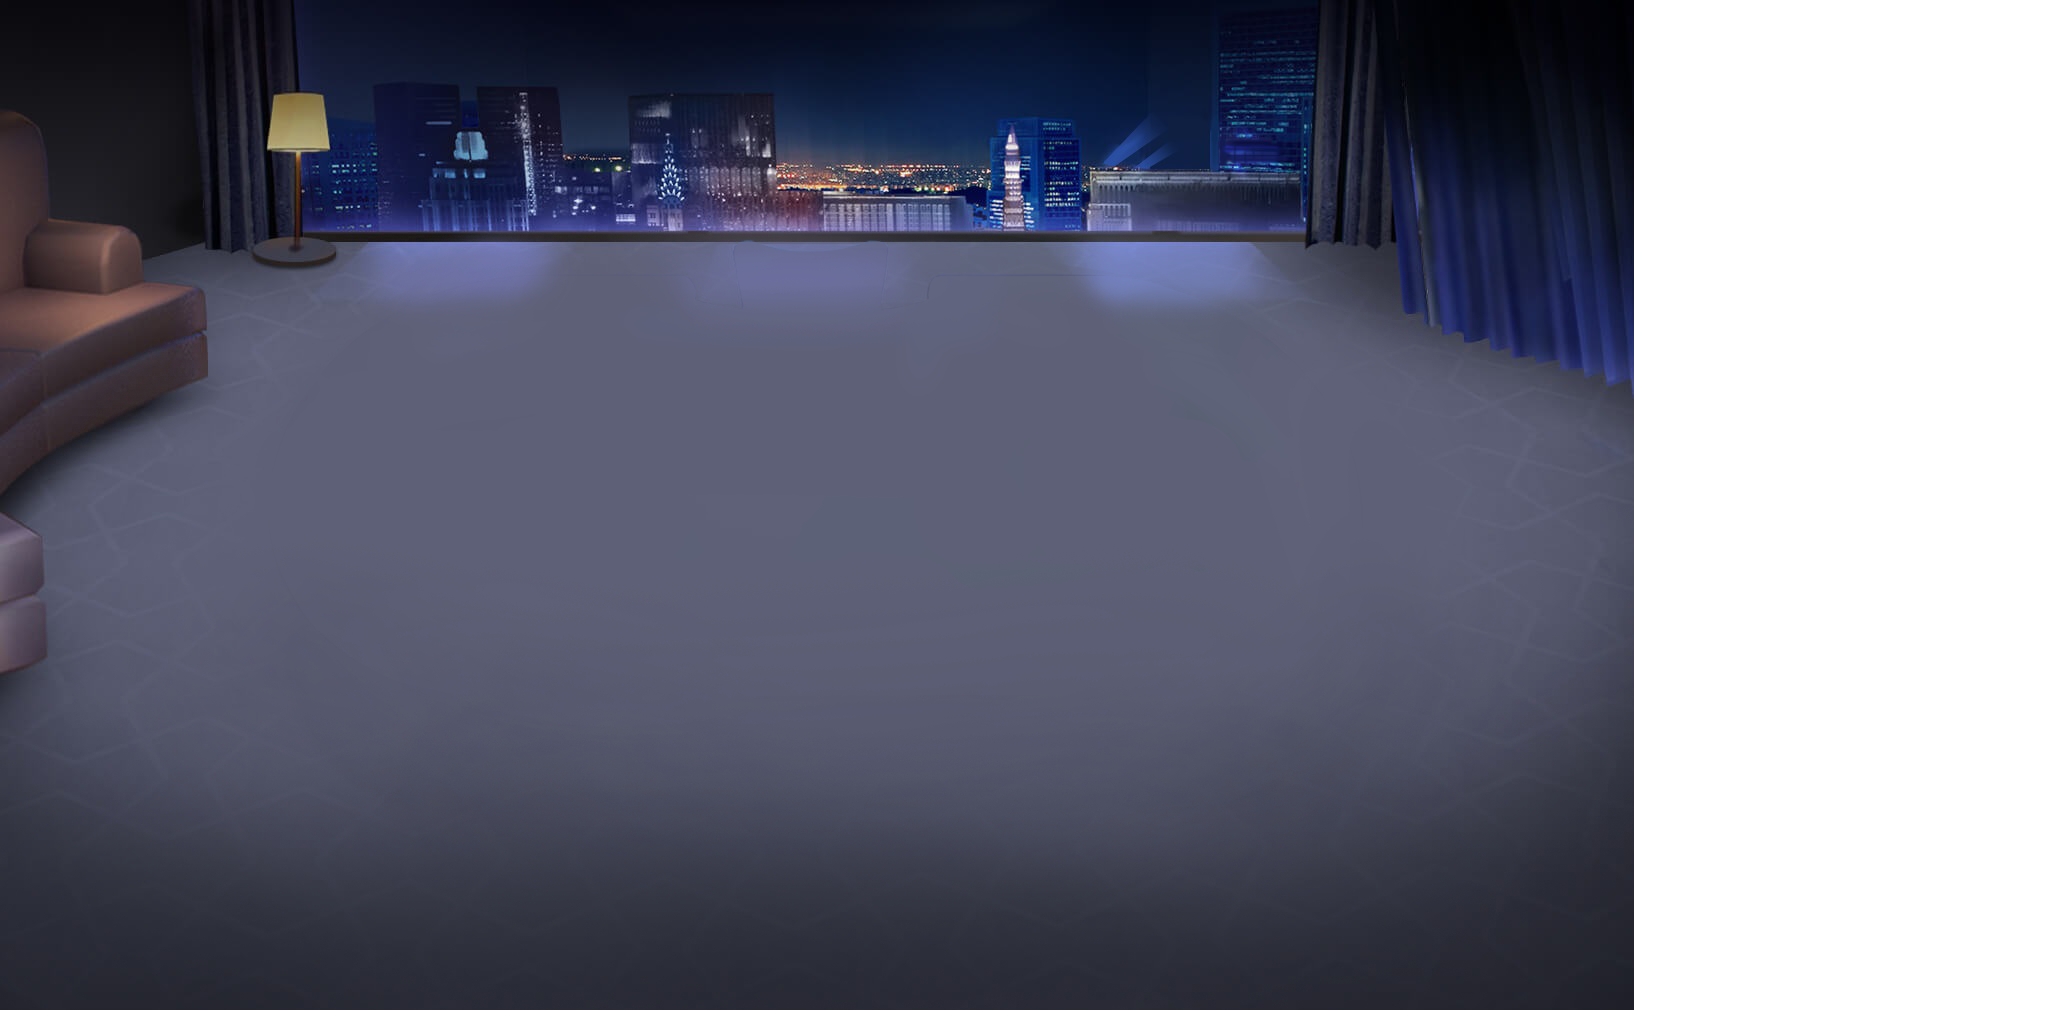
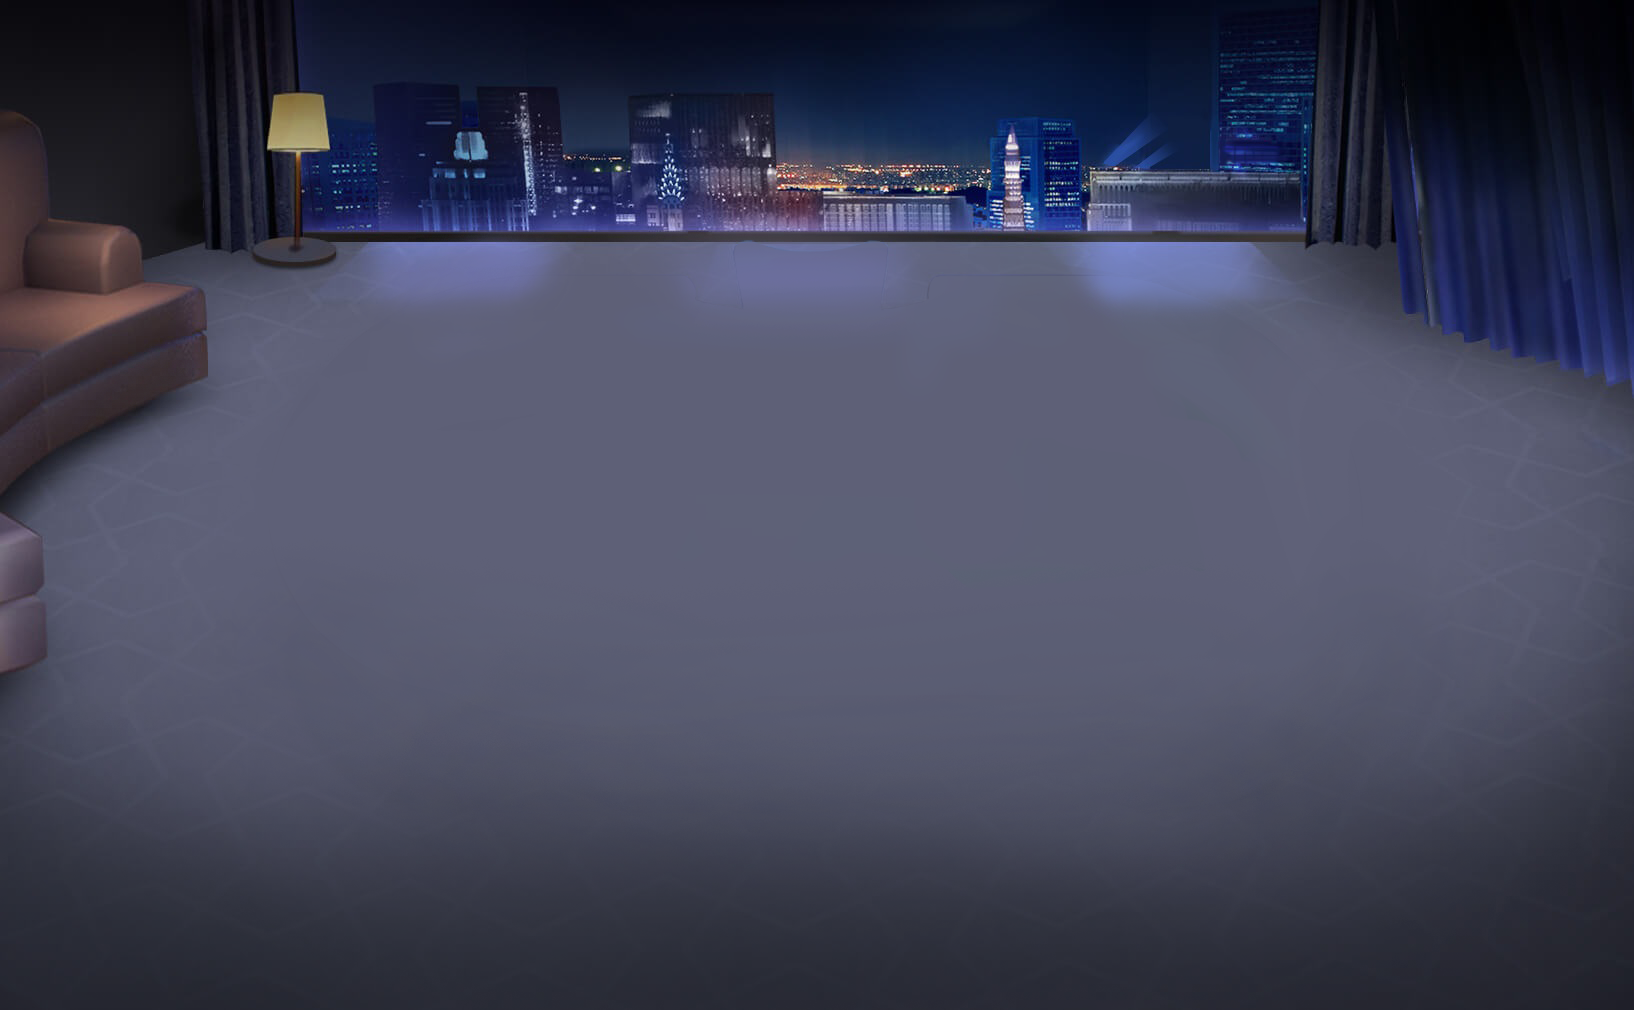
feat: hall bg

diff --git a/src/game/scenes/Hall.ts b/src/game/scenes/Hall.ts
@@ -1,0 +1,39 @@
+import { EventBus } from '../EventBus';
+import { Scene } from 'phaser';
+
+export class Hall extends Scene
+{
+    camera: Phaser.Cameras.Scene2D.Camera;
+    background: Phaser.GameObjects.Image;
+    gameText: Phaser.GameObjects.Text;
+
+    constructor ()
+    {
+        super('Hall');
+    }
+
+    create ()
+    {
+        // this.camera = this.cameras.main;
+        // this.camera.setBackgroundColor(0x00ff00);
+        this.background = this.add.image(512, 384, 'hall_background');
+        this.background.displayWidth = 1024;
+        this.background.displayHeight = 768;
+        // this.background.setScale(0.62);
+
+
+
+        // this.gameText = this.add.text(512, 384, 'Make something fun!\nand share it with us:\nsupport@phaser.io', {
+        //     fontFamily: 'Arial Black', fontSize: 38, color: '#ffffff',
+        //     stroke: '#000000', strokeThickness: 8,
+        //     align: 'center'
+        // }).setOrigin(0.5).setDepth(100);
+
+        EventBus.emit('current-scene-ready', this);
+    }
+
+    changeScene ()
+    {
+        this.scene.start('GameOver');
+    }
+}

diff --git a/src/App.tsx b/src/App.tsx
@@ -2,8 +2,6 @@ import { useRef, useState } from 'react';
 import { IRefPhaserGame, PhaserGame } from './PhaserGame';
 import { MainMenu } from './game/scenes/MainMenu';
 import { useCurrentAccount,ConnectButton} from "@mysten/dapp-kit";
-import {Box, Container, Flex, Heading} from "@radix-ui/themes";
-import {EventBus} from "./game/EventBus.ts";
 
 
 function App()
@@ -115,7 +113,7 @@ function App()
                 </div>
             </div>
             <div ref={connectBTNRef} className="connect-button" style={{visibility: "visible"}}>
-                <ConnectButton className="connectBtn"/>
+                <ConnectButton className="connectBtn" />
             </div>
         </div>
     )

diff --git a/src/game/scenes/MainMenu.ts b/src/game/scenes/MainMenu.ts
@@ -23,9 +23,6 @@ export class MainMenu extends Scene
         this.background.setScale(0.76);
         this.background.setDepth(-1);
 
-        this.background = this.add.image(650, 390, 'background');
-        this.background.setScale(0.76);
-        this.background.setDepth(-1);
 
         this.avatar = this.add.image(500, 370, 'loading_avatar');
         this.avatar.setScale(0.7);
@@ -42,6 +39,8 @@ export class MainMenu extends Scene
                 console.log('图片被点击');
                 EventBus.emit('action_login', this);
             })
+        }else{
+            this.scene.start('Hall');
         }
 
         // this.logo = this.add.image(512, 300, 'logo').setDepth(100);

diff --git a/src/game/main.ts b/src/game/main.ts
@@ -2,6 +2,7 @@ import { Boot } from './scenes/Boot';
 import { GameOver } from './scenes/GameOver';
 import { Game as MainGame } from './scenes/Game';
 import { MainMenu } from './scenes/MainMenu';
+import { Hall } from './scenes/Hall';
 import { AUTO, Game } from 'phaser';
 import { Preloader } from './scenes/Preloader';
 
@@ -17,6 +18,7 @@ const config: Phaser.Types.Core.GameConfig = {
         Boot,
         Preloader,
         MainMenu,
+        Hall,
         MainGame,
         GameOver
     ]

diff --git a/src/game/scenes/Boot.ts b/src/game/scenes/Boot.ts
@@ -15,6 +15,7 @@ export class Boot extends Scene
         this.load.image('background', 'assets/loading/loading.png');
         this.load.image('guest_login','assets/loading/guest_login.png')
         this.load.image('loading_avatar','avatars/avater0.png')
+        this.load.image('hall_background','src/assets/Desktop/Desktop_atlas3.png')
     }
 
     create ()

diff --git a/src/PhaserGame.tsx b/src/PhaserGame.tsx
@@ -79,7 +79,6 @@ export const PhaserGame = forwardRef<IRefPhaserGame, IProps>(function PhaserGame
             EventBus.removeListener('current-scene-ready');
         }
     }, [currentActiveScene, ref,actionLogin]);
-
     return (
         <div id="game-container"></div>
     );
